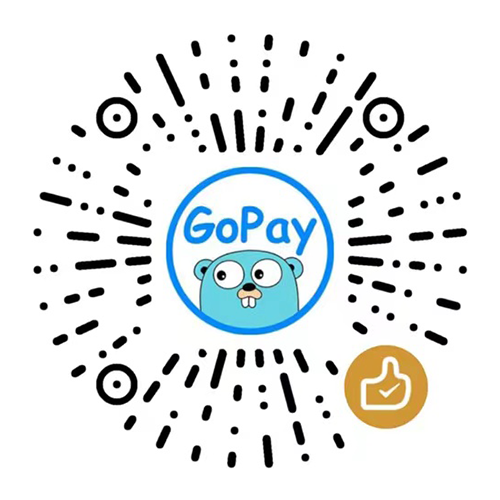
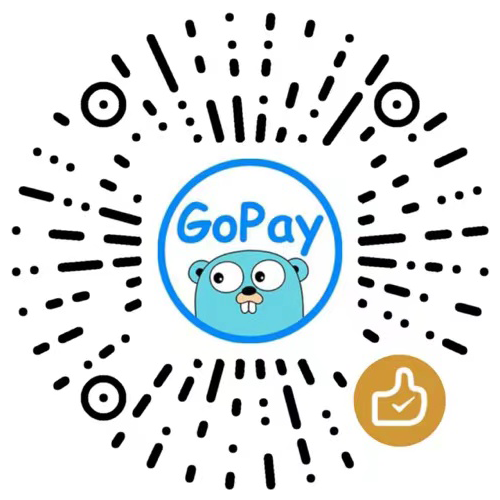
update

diff --git a/README.md b/README.md
@@ -84,7 +84,7 @@ QQ群：
 ## 赞赏多少是您的心意，感谢支持！
 
 微信赞赏码： <img width="250" height="250" src="https://raw.githubusercontent.com/go-pay/gopay/main/zanshang.png"/>
-支付宝赞助码： <img width="250" height="250" src="https://raw.githubusercontent.com/go-pay/gopay/main/zanshang_zfb.png"/>
+支付宝赞助码： <img width="240" height="240" src="https://raw.githubusercontent.com/go-pay/gopay/main/zanshang_zfb.png"/>
 
 ## License
 
